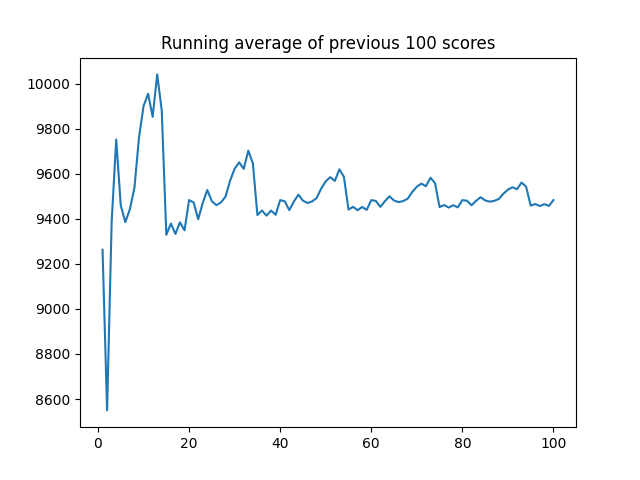
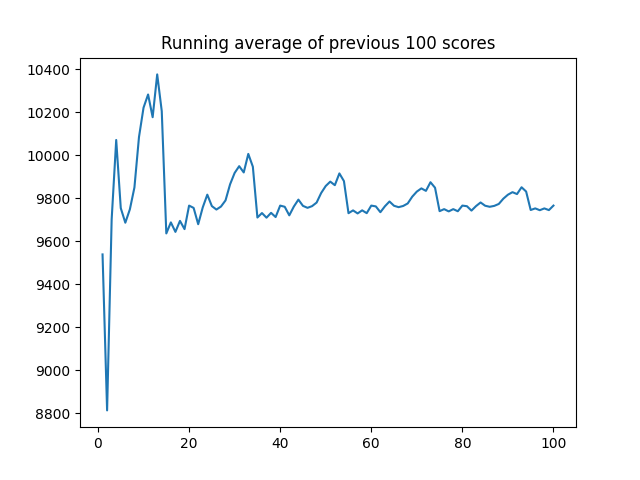
ppo trained

diff --git a/train.py b/train.py
@@ -12,8 +12,8 @@ env_name = "rte_case5_example"  # or any other name.
 env = grid2op.make(env_name, test=True, action_class=TopologyChangeAction)
 
 
-agent = KANPPOAgent(n_actions=132, input_dims=182)
+agent = PPOAgent(n_actions=132, input_dims=182)
 trainer = PPOTrainer(agent=agent, env=env, N=20, n_epochs=50, n_games=100)
 
-trainer.train("result\\ppo-kan.png")
+trainer.train("result\\ppo.png")
 #agentt.save_model("models")

diff --git a/agents/ppo.py b/agents/ppo.py
@@ -201,7 +201,7 @@ class KANPPOAgent:
 
 class ActorNetwork(nn.Module):
     def __init__(self, n_actions, input_dims, alpha,
-            fc1_dims=16, fc2_dims=32, chkpt_dir='models'):
+            fc1_dims=256, fc2_dims=512, chkpt_dir='models'):
         super(ActorNetwork, self).__init__()
 
         self.checkpoint_file = os.path.join(chkpt_dir, 'actor_torch_ppo')
